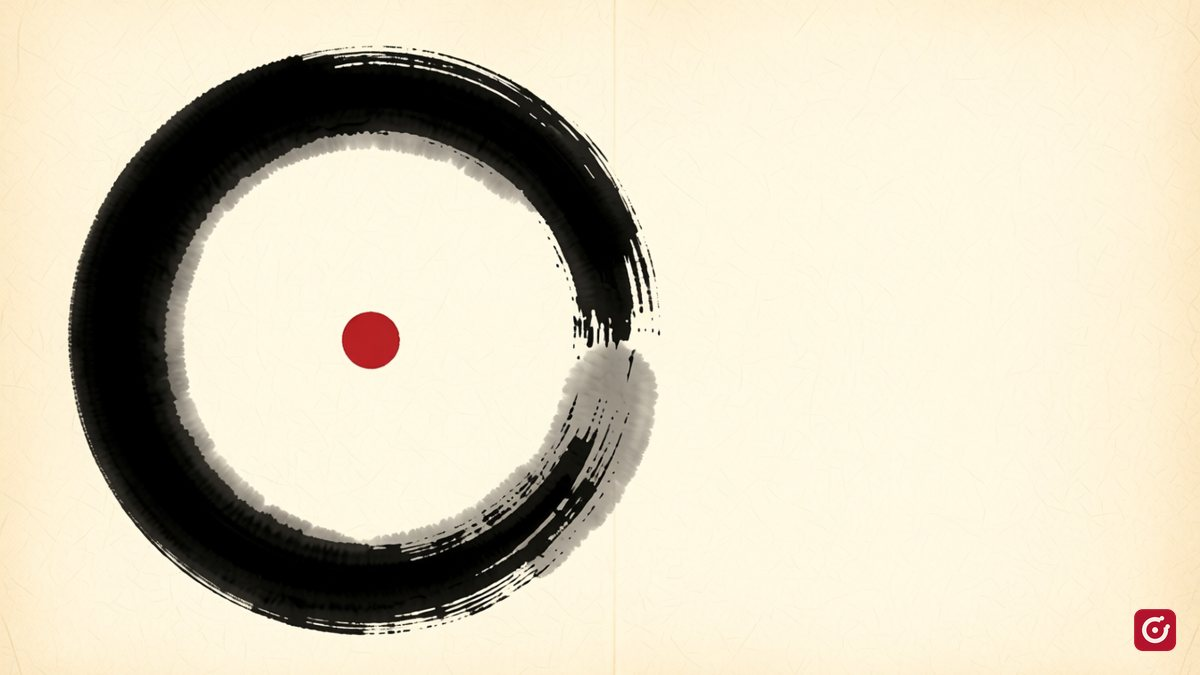
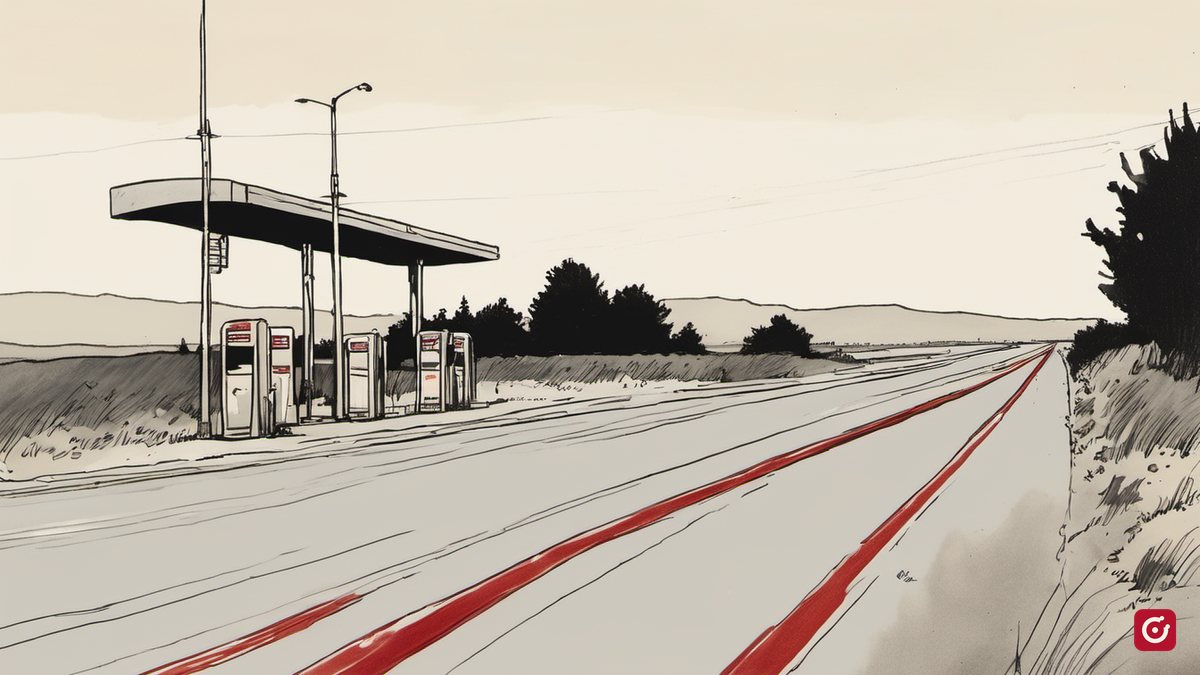
chore(cover): generate cover for nextjs-middleware

diff --git a/posts/nextjs-middleware.md b/posts/nextjs-middleware.md
@@ -5,8 +5,6 @@ image: cover.jpg
 excerpt: Middleware runs before every matched request at the Edge, making it the right place for auth gating, locale detection, and fast redirects without touching your page code.
 isFeatured: false
 belt: green
-coverPending: true
-coverPrompt: 'A tollbooth painted vermilion on a wide highway at dawn, with a row of vehicles waiting to pass through the gate before the open road beyond'
 ---
 
 Next.js **middleware** is a single file — `middleware.ts` at the project root — that runs on every matched request before it reaches a page, API route, or static asset. It executes on the **Edge Runtime**, meaning it starts up nearly instantly, runs close to the user, and completes in milliseconds before Next.js decides what to serve.
